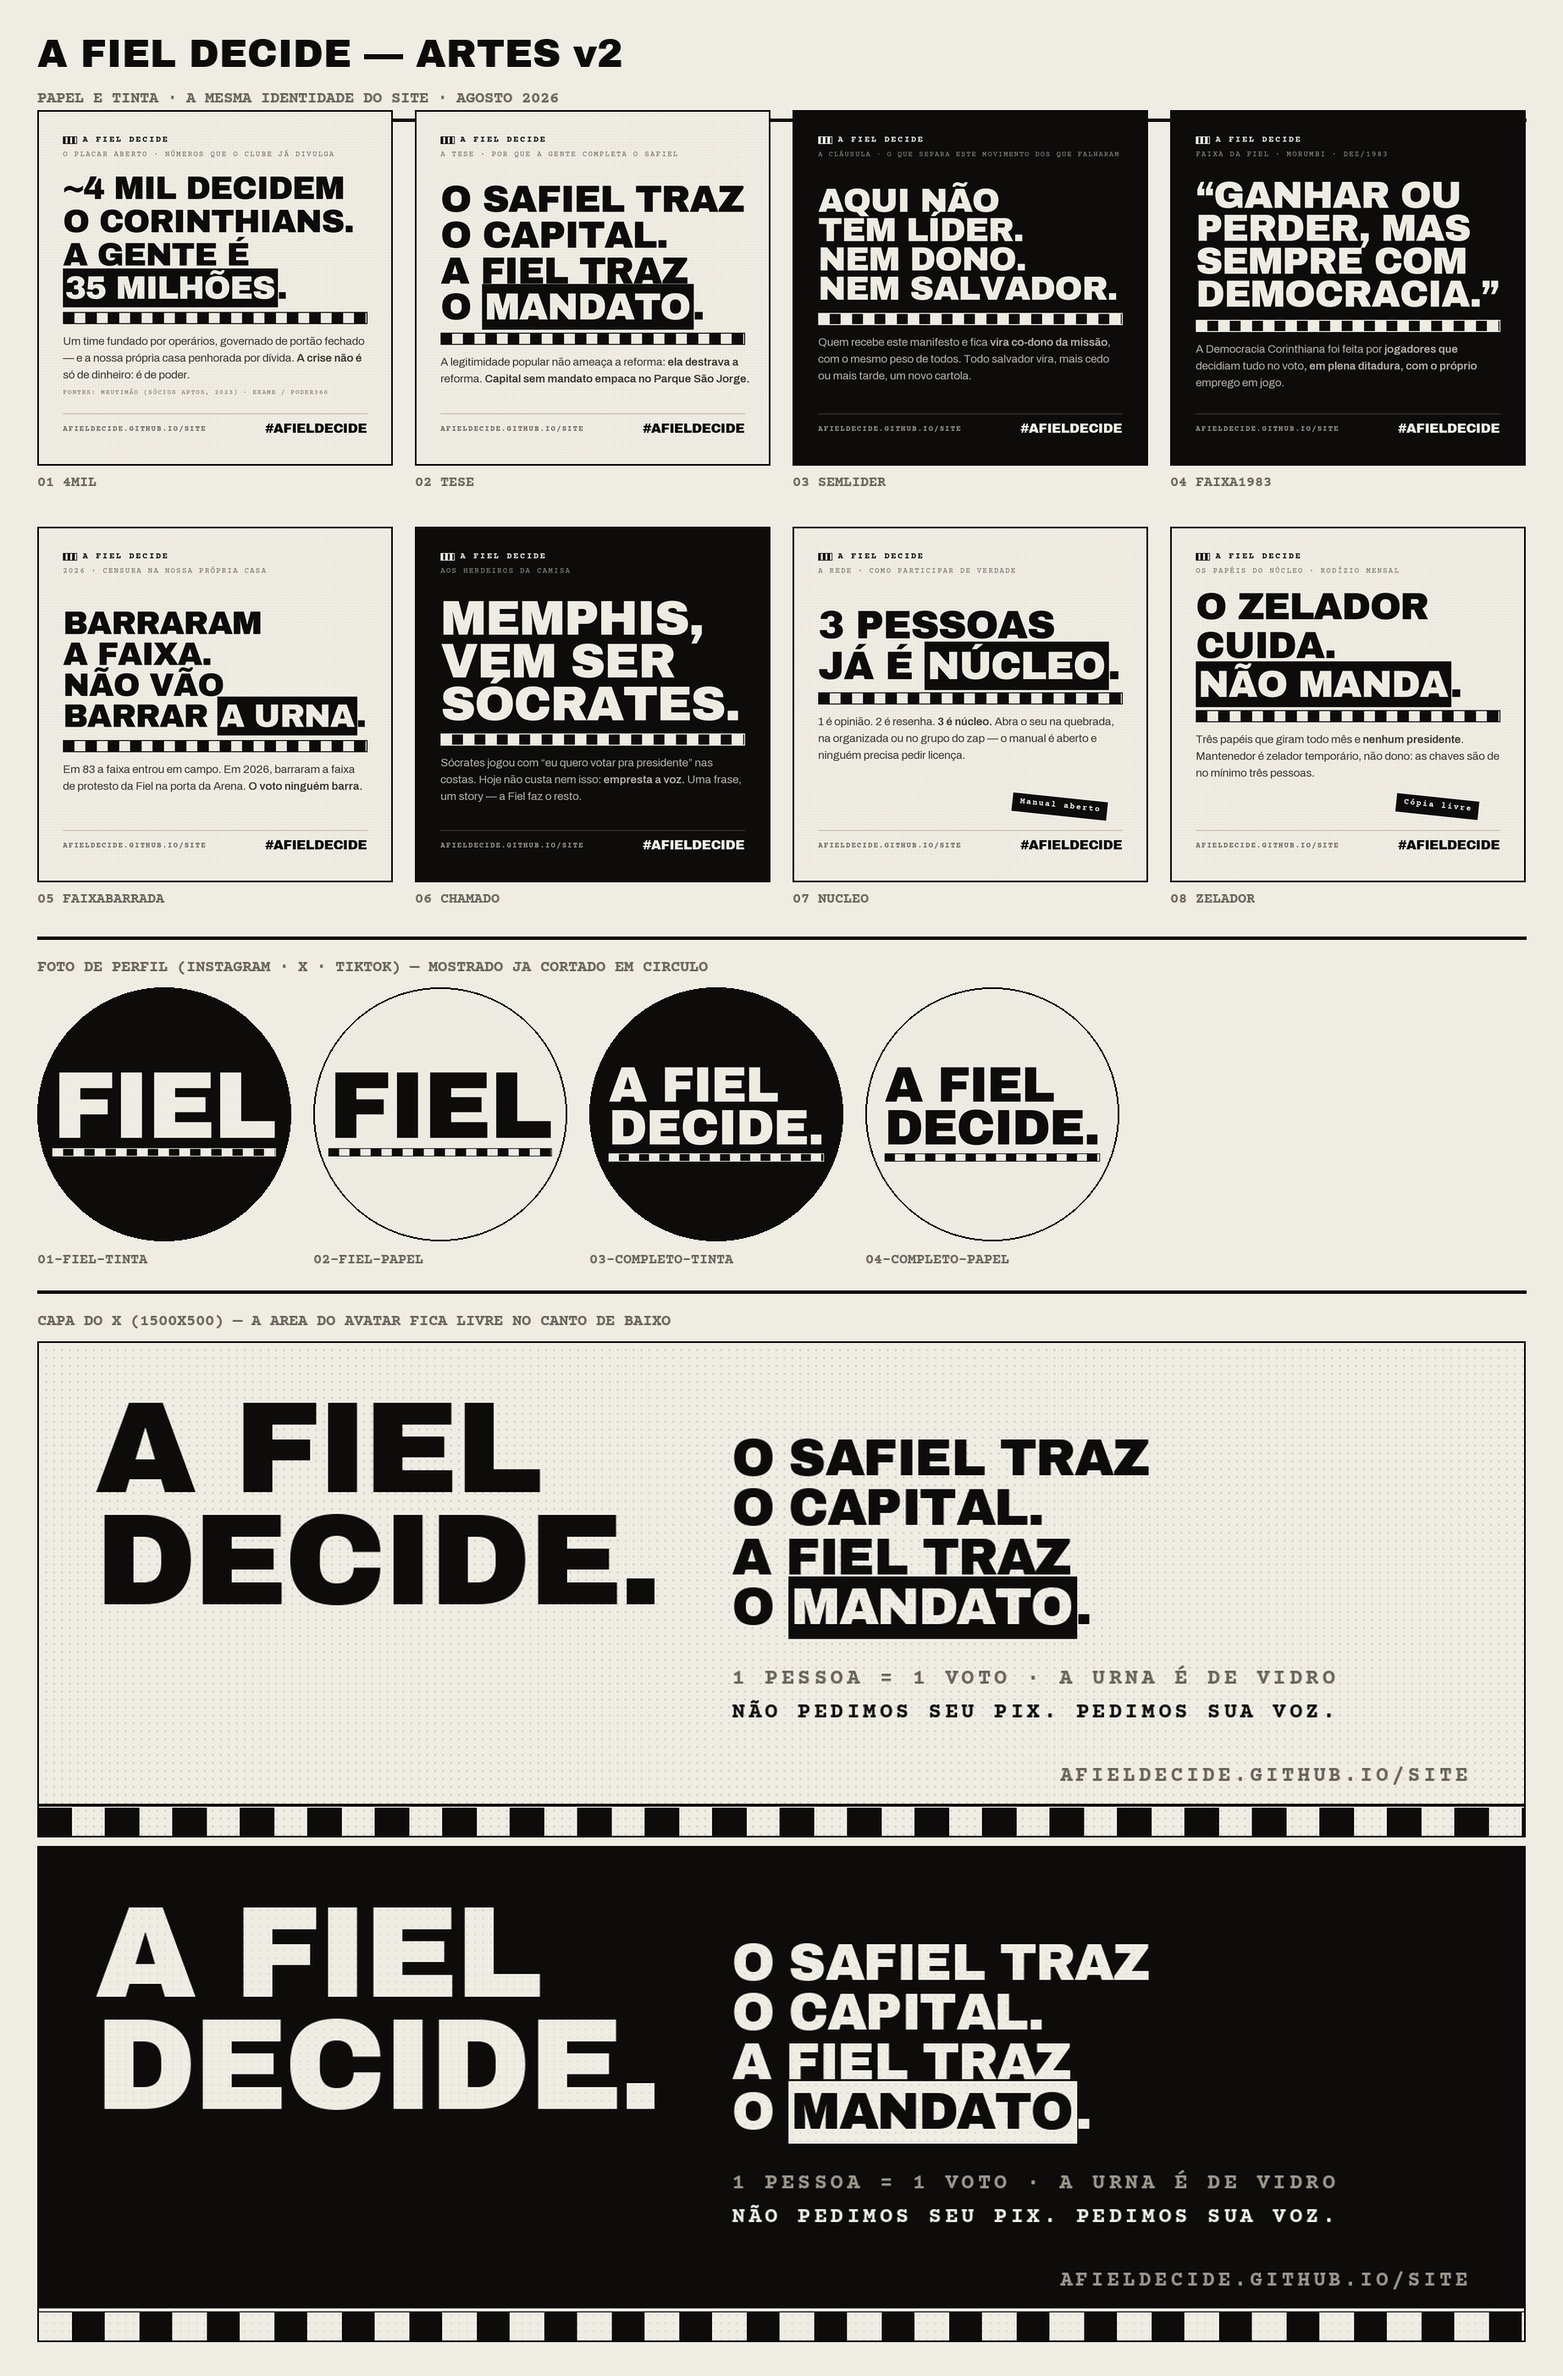
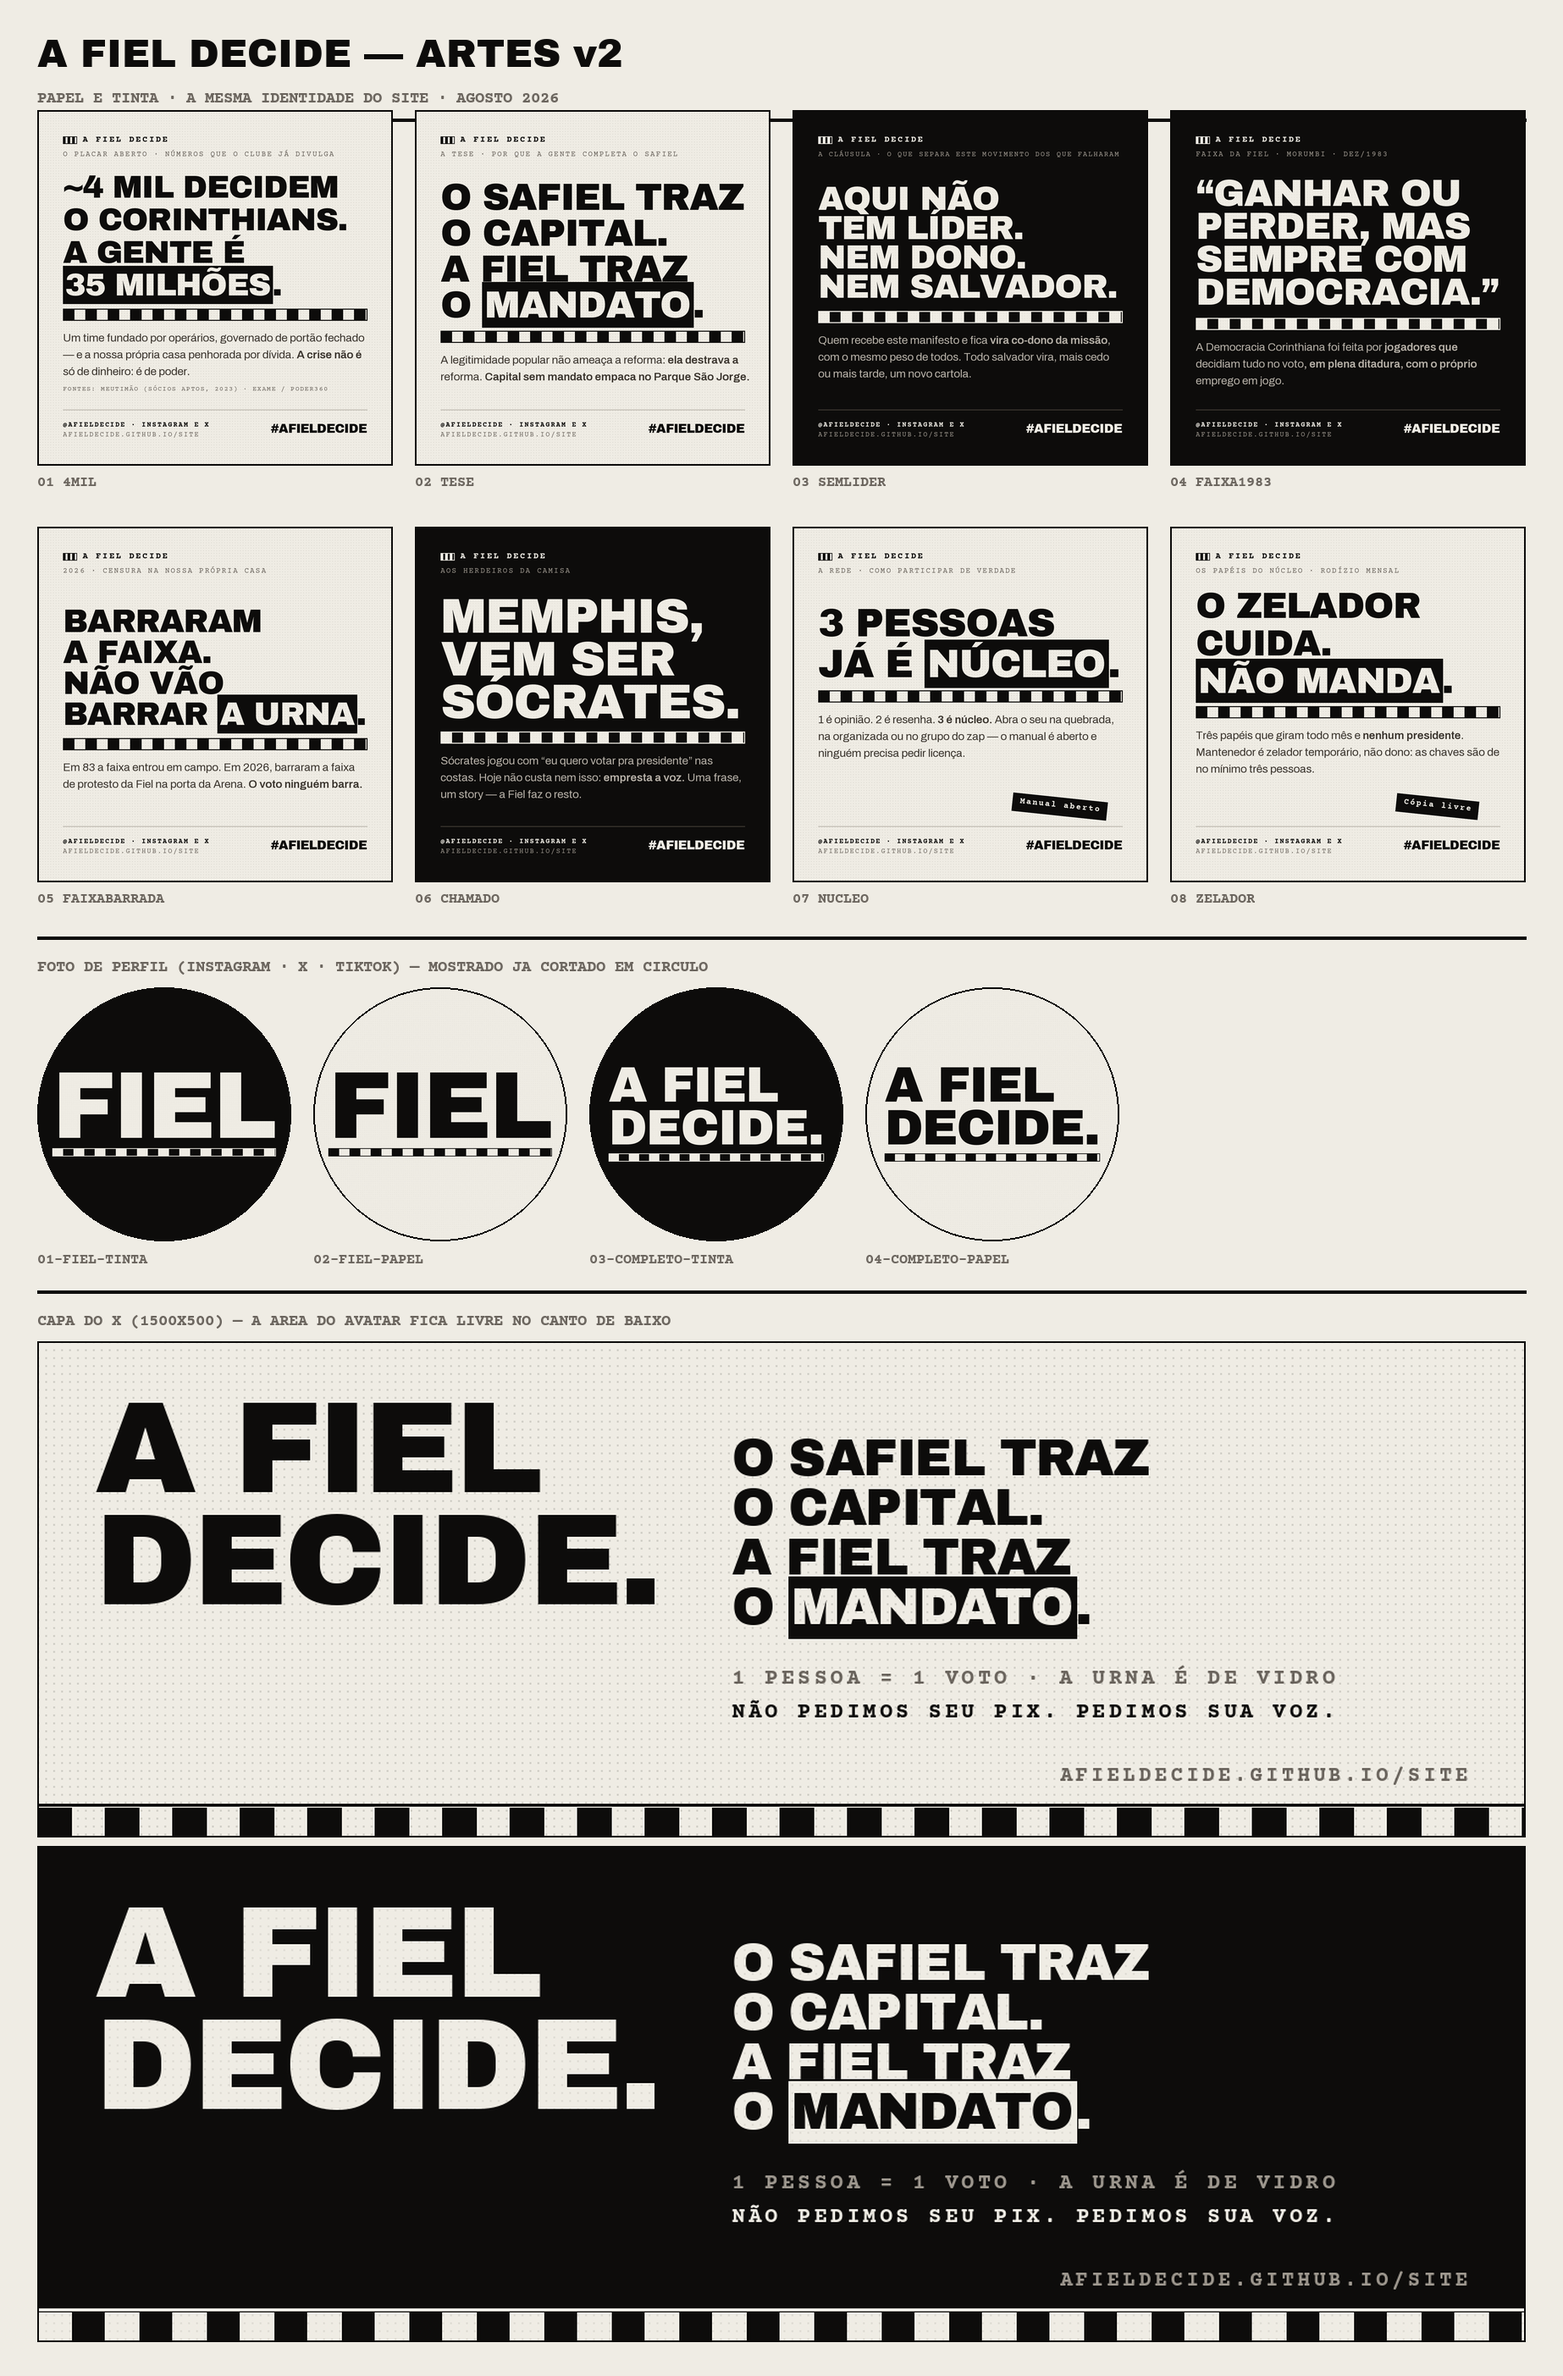
Record the @afieldecide profiles across plan and art
Instagram and X profiles exist as of 12/08/2026, both under the same handle.

- 08: steps 2 and 3 marked done, handle linked, summary table updated
- 07: wave 0 checklist reflects reality (petition, profiles and site live;
  TikTok and bios still open)
- cards: footer now carries @afieldecide above the site address

diff --git a/ARTES/v2-papel-e-tinta/gera_artes.py b/ARTES/v2-papel-e-tinta/gera_artes.py
@@ -34,6 +34,7 @@ ON_DARK_BODY = (181, 175, 166)
 RULE_DARK = (58, 53, 47)
 
 SITE = "AFIELDECIDE.GITHUB.IO/SITE"
+PERFIS = "@AFIELDECIDE · INSTAGRAM E X"
 
 _cache = {}
 
@@ -263,14 +264,15 @@ def card(nome, kicker, linhas, lead=None, fonte=None, escuro=False, carimbo=None
     escreve(d, (M, y), kicker.upper(), f_kick, mute, tr_kick)
     topo_livre = y + 78
 
-    # ---- rodape: regua + endereco + hashtag
-    y_rodape = H - M - 46
+    # ---- rodape: regua + perfis + endereco + hashtag
+    y_rodape = H - M - 58
     d.line([(M, y_rodape - 34), (W - M, y_rodape - 34)],
            fill=RULE_DARK if escuro else NUM_GHOST, width=3)
-    escreve(d, (M, y_rodape), SITE, mono(23), mute, 23 * 0.12)
-    f_tag = display(40)
+    escreve(d, (M, y_rodape), PERFIS, mono(21), fg, 21 * 0.14)
+    escreve(d, (M, y_rodape + 30), SITE, mono(21, negrito=False), mute, 21 * 0.14)
+    f_tag = display(38)
     tag = "#AFIELDECIDE"
-    escreve(d, (W - M - largura(d, tag, f_tag, -1.2), y_rodape - 12), tag, f_tag, fg, -1.2)
+    escreve(d, (W - M - largura(d, tag, f_tag, -1.2), y_rodape + 2), tag, f_tag, fg, -1.2)
     base_livre = y_rodape - 78
     if carimbo:
         base_livre -= 96

diff --git a/PLANO/08-roteiro-contas.md b/PLANO/08-roteiro-contas.md
@@ -18,19 +18,19 @@
 4. Imagem da petição: usar `ARTES\v2-papel-e-tinta\card-01-4mil.png` (nunca o escudo oficial).
 5. Publicar → **copiar o link** → ligar no botão do site e nos textos do kit 07.
 
-## Passo 2 — Instagram 🔴
-- Handle: `@afieldecide` (cair pra `@afieldecide_` ou `@afieldecideoficial` se ocupado).
+## Passo 2 — Instagram ✅ FEITO (12/08/2026)
+- Handle oficial: **[@afieldecide](https://instagram.com/afieldecide)** — conquistado sem variação.
 - Bio pronta: seção 3.5 do `07-kit-divulgacao.md`. Link: site (depois, o domínio).
 - Primeiro post: `ARTES\v2-papel-e-tinta\card-01-4mil.png` com legenda do convite viral (kit 03, seção 2.5).
 - Foto de perfil: `ARTES\v2-papel-e-tinta\avatar-01-fiel-tinta.png` (ou a variação em papel). Vale pro X e pro TikTok também.
 - Conta **profissional** (categoria: organização sem fins lucrativos/comunidade) — libera métricas.
 
-## Passo 3 — X (Twitter) 🔴
-- Handle: `@afieldecide` (alternativas acima).
+## Passo 3 — X (Twitter) ✅ FEITO (12/08/2026)
+- Handle oficial: **[@afieldecide](https://x.com/afieldecide)** — o mesmo do Instagram, o que facilita a vida de quem procura.
 - Bio pronta (3.5 do kit 07). Fixar: a thread de lançamento (3.2) quando publicar.
 
 ## Passo 4 — TikTok 🟡
-- Mesmo handle. Conteúdo: roteiros A/B da seção 3.3 do kit 07 (cartelas de texto já bastam).
+- Mesmo handle (`@afieldecide`), pra manter o nome único em todas as redes. Conteúdo: roteiros A/B da seção 3.3 do kit 07 (cartelas de texto já bastam).
 
 ## Passo 5 — registro.br (o domínio) 🟡 ~R$ 40/ano
 - Registrar `afieldecide.com.br` (alternativas: `fieldecide.com.br`, `afieldecide.org.br`).
@@ -52,9 +52,9 @@
 | # | Conta | Handle/nome | Pra quê | Prioridade |
 |---|---|---|---|---|
 | 0 | Gmail | afieldecide@ | Fundação de todas as contas | 🔴 já |
-| 1 | Change.org | — | A petição (mandato nº 1) | 🔴 já |
-| 2 | Instagram | @afieldecide | Divulgação de massa | 🔴 já |
-| 3 | X | @afieldecide | Imprensa, setoristas, Memphis | 🔴 já |
+| 1 | Change.org | — | A petição (mandato nº 1) | ✅ feito |
+| 2 | Instagram | [@afieldecide](https://instagram.com/afieldecide) | Divulgação de massa | ✅ feito |
+| 3 | X | [@afieldecide](https://x.com/afieldecide) | Imprensa, setoristas, Memphis | ✅ feito |
 | 4 | TikTok | @afieldecide | Alcance jovem, cortes | 🟡 semana 1 |
 | 5 | registro.br | afieldecide.com.br | Endereço próprio (~R$ 40/ano) | 🟡 semana 1 |
 | 6 | GitHub | org afieldecide | Código aberto + site próprio | 🟡 antes do chip infra |

diff --git a/PLANO/07-kit-divulgacao.md b/PLANO/07-kit-divulgacao.md
@@ -15,10 +15,10 @@
 ## 1. CALENDÁRIO — as 4 ondas
 
 ### Onda 0 — Arrumar a casa (antes de qualquer post)
-- [ ] Petição publicada no Change.org (texto pronto: `04-abaixo-assinado.md`)
-- [ ] Perfis criados: Instagram + X + TikTok (@afieldecide ou variação livre) — com a marca do losango, **nunca** o escudo oficial
-- [ ] Site no ar em endereço próprio (ver `06-arquitetura-aberta.md`, Fase 0)
-- [ ] Bios preenchidas (prontas na seção 4)
+- [x] Petição publicada no Change.org (texto pronto: `04-abaixo-assinado.md`) — link estável do movimento: `afieldecide.github.io/site/assinar/`
+- [x] Perfis criados: **[@afieldecide no Instagram](https://instagram.com/afieldecide)** e **[@afieldecide no X](https://x.com/afieldecide)** (12/08/2026) — com a faixa listrada, **nunca** o escudo oficial. Falta o TikTok.
+- [x] Site no ar: https://afieldecide.github.io/site/ (endereço próprio pendente do domínio)
+- [ ] Bios preenchidas (prontas na seção 3.5) e foto de perfil subida (`ARTES2-papel-e-tintavatar-01-fiel-tinta.png`; capa do X: `banner-x-02-tinta.png`)
 - **Gate de saída:** links funcionando ponta a ponta (site → petição → compartilhar).
 
 ### Onda 1 — A base (semanas 1–2): inbound puro
@@ -161,13 +161,13 @@ Textos prontos no `03-kit-convocacao.md` seção **2.3-B** (PT pro elenco, EN pr
 
 ### 3.5 Bios prontas
 
-**Instagram/TikTok:**
+**Instagram/TikTok:** (perfil: [@afieldecide](https://instagram.com/afieldecide))
 > ⬥ A Fiel Decide — Democracia Corinthiana Digital
 > Voto aberto, contas na mesa. 1 pessoa = 1 voto.
 > ❌ Não pedimos Pix ✅ Pedimos sua voz
 > Sem dono. Código aberto. 👇 Assina
 
-**X:**
+**X:** (perfil: [@afieldecide](https://x.com/afieldecide))
 > O SAFiel traz o capital. A Fiel traz o mandato. Consultas abertas (1 CPF = 1 voto), urna de vidro auditável, contas traduzidas. Não arrecadamos dinheiro — nunca. #AFielDecide
 
 ### 3.6 Respostas prontas às 5 objeções (pra quem for responder comentário)
